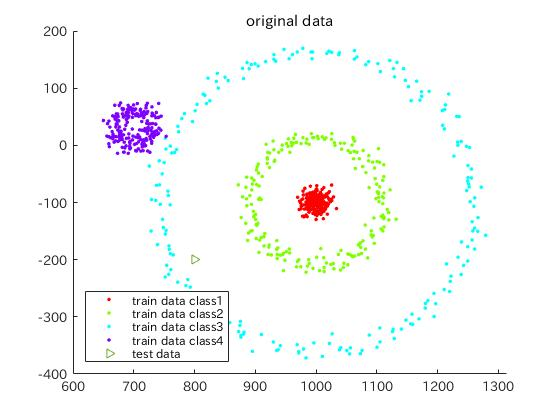
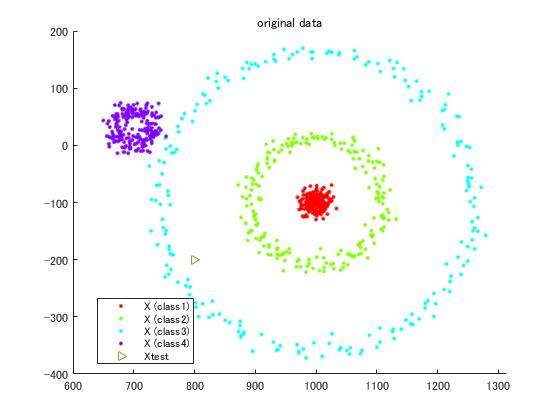
improved

diff --git a/demo.m b/demo.m
@@ -10,7 +10,7 @@ figure
 hold on
 gscatter(X(:, 1), X(:, 2), Y)
 plot(Xtest(:, 1), Xtest(:, 2), 'LineStyle', 'none', 'Marker', '>')
-legend(["train data class1", "train data class2", "train data class3", "train data class4", "test data"])
+legend(["X (class1)", "X (class2)", "X (class3)", "X (class4)", "Xtest"])
 title('original data')
 
 
@@ -39,5 +39,5 @@ plot(projected_Xtest(:, 1), projected_Xtest(:, 2), 'LineStyle', 'none', 'Marker'
 title('pca with gaussian kernel')
 xlabel('principal dim')
 ylabel('second dim')
-legend(["train data class1", "train data class2", "train data class3", "train data class4", "test data"])
+legend(["X (class1)", "X (class2)", "X (class3)", "X (class4)", "Xtest"])
 
